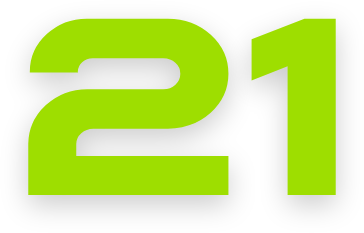
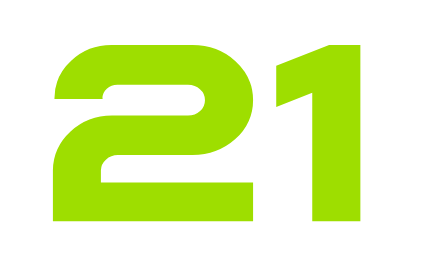
fix(web): refresh Korra wordmarks and login marks for 0.21.14

diff --git a/web/src/components/KorraBrand.tsx b/web/src/components/KorraBrand.tsx
@@ -9,15 +9,15 @@ import { withBasePath } from "@/lib/api";
  */
 export function KorraBrand({ className, themeName }: KorraBrandProps) {
   const src = themeName === "dark"
-    ? withBasePath("/korra-logo-dark.png")
-    : withBasePath("/korra-logo-light.png");
+    ? withBasePath("/korra-logo-dark.png?v=0.21.14")
+    : withBasePath("/korra-logo-light.png?v=0.21.14");
 
   return (
     <img
       src={src}
       alt="Korra"
       className={cn(
-        "h-[22px] w-auto max-w-[132px] shrink-0 object-contain",
+        "h-[26px] w-auto max-w-[132px] shrink-0 object-contain",
         className,
       )}
     />

diff --git a/web/src/App.tsx b/web/src/App.tsx
@@ -720,7 +720,7 @@ export default function App() {
           <Menu />
         </Button>
 
-        <KorraBrand themeName={theme.name} className="h-[18px]" />
+        <KorraBrand themeName={theme.name} className="h-[21px]" />
       </header>
 
       {mobileOpen && (

diff --git a/korra_cli/dashboard_auth/login_page.py b/korra_cli/dashboard_auth/login_page.py
@@ -119,13 +119,11 @@ _LOGIN_HTML_TEMPLATE = """\
     to   {{ opacity: 1; transform: translateY(0); }}
   }}
 
-  /* The lockup is assembled from the brand PNGs. Both carry their own soft
-     shadow and transparent padding inside the frame: the letters fill 61.7%
-     of their frame height, the numeral 75.5%. Hence the .817 multiplier
-     (optically equal heights) and the near-zero gap — the optical gap is
-     already baked into the files' padding. */
+  /* Both PNGs have transparent padding. The new shadow-free letters fill
+     58.3% of their frame height, the numeral 67.8%; .86 keeps their visible
+     heights aligned. The optical gap is already in the files. */
   .brand-lockup {{
-    --word-h: clamp(2.2rem, 4.2vw, 3.2rem);
+    --word-h: clamp(2.55rem, 4.9vw, 3.75rem);
     display: flex;
     align-items: center;
     gap: 0.1rem;
@@ -133,7 +131,7 @@ _LOGIN_HTML_TEMPLATE = """\
   }}
 
   .brand-word {{ height: var(--word-h); width: auto; }}
-  .brand-number {{ height: calc(var(--word-h) * 0.817); width: auto; }}
+  .brand-number {{ height: calc(var(--word-h) * 0.86); width: auto; }}
 
   /* Строка слева меняется сама. Стек на grid, а не абсолютное
      позиционирование: блок получает высоту самой длинной фразы, и раскладка
@@ -378,8 +376,8 @@ _LOGIN_HTML_TEMPLATE = """\
   <div class="login-shell">
     <section class="identity">
       <div class="brand-lockup">
-        <img class="brand-word" src="{base_path}/brand/korra-wordmark.png" alt="Korra" width="740" height="149">
-        <img class="brand-number" src="{base_path}/brand/korra-21.png" alt="21" width="364" height="233">
+        <img class="brand-word" src="{base_path}/brand/korra-wordmark.png?v=0.21.14" alt="Korra" width="1144" height="235">
+        <img class="brand-number" src="{base_path}/brand/korra-21.png?v=0.21.14" alt="21" width="423" height="261">
       </div>
       <h1>
         <span class="tagline-line">Чтобы твои идеи не оставались идеями</span>
@@ -454,17 +452,17 @@ _EMPTY_HTML = """\
   main {
     width: 100%; max-width: 30rem;
   }
-  /* Тот же лок-ап из PNG, что и на /login: множитель .817 уравнивает
+  /* Тот же лок-ап из PNG, что и на /login: множитель .86 уравнивает
      оптические высоты литер и цифры внутри их кадров. */
   .brand {
-    --word-h: 2.35rem;
+    --word-h: 2.75rem;
     display: inline-flex;
     align-items: center;
     gap: 0.1rem;
     margin-bottom: clamp(2.4rem, 7vh, 3.6rem);
   }
   .brand-word { height: var(--word-h); width: auto; }
-  .brand-number { height: calc(var(--word-h) * 0.817); width: auto; }
+  .brand-number { height: calc(var(--word-h) * 0.86); width: auto; }
   h1 {
     margin: 0 0 1rem;
     font-weight: 680;
@@ -504,8 +502,8 @@ _EMPTY_HTML = """\
 <body>
 <main>
 <div class="brand">
-  <img class="brand-word" src="/brand/korra-wordmark.png" alt="Korra" width="740" height="149">
-  <img class="brand-number" src="/brand/korra-21.png" alt="21" width="364" height="233">
+  <img class="brand-word" src="/brand/korra-wordmark.png?v=0.21.14" alt="Korra" width="1144" height="235">
+  <img class="brand-number" src="/brand/korra-21.png?v=0.21.14" alt="21" width="423" height="261">
 </div>
 <h1>Настройте доступ</h1>
 <p>Панель готова принимать подключения. Добавьте провайдер логина и пароля или OAuth-провайдер в конфигурации Korra21.</p>

diff --git a/tests/korra_cli/test_dashboard_auth_password_login.py b/tests/korra_cli/test_dashboard_auth_password_login.py
@@ -463,8 +463,8 @@ class TestLoginPageRender:
             assert "color-scheme: dark" not in html
             assert "--canvas: #212121" not in html
             assert 'content="#e8e8e8"' in html
-            assert '<img class="brand-word" src="/brand/korra-wordmark.png"' in html
-            assert '<img class="brand-number" src="/brand/korra-21.png"' in html
+            assert '<img class="brand-word" src="/brand/korra-wordmark.png?v=0.21.14"' in html
+            assert '<img class="brand-number" src="/brand/korra-21.png?v=0.21.14"' in html
             assert '<span class="brand-word">KORRA</span>' not in html
         finally:
             clear_providers()
@@ -478,7 +478,7 @@ class TestLoginPageRender:
         assert "Настройте доступ" in html
         assert "color-scheme: light" in html
         assert "color-scheme: dark" not in html
-        assert 'src="/brand/korra-wordmark.png"' in html
+        assert 'src="/brand/korra-wordmark.png?v=0.21.14"' in html
 
     def test_oauth_only_page_stays_script_free(self):
         clear_providers()

diff --git a/tests/korra_cli/test_dashboard_auth_prefix.py b/tests/korra_cli/test_dashboard_auth_prefix.py
@@ -206,8 +206,8 @@ class TestGateRedirectsCarryPrefix:
         assert 'href="/hermes/auth/login?provider=stub"' in r.text
         # Знаки бренда — такие же pre-auth ассеты, как шрифт: без префикса
         # под ingress-монтированием лок-ап уехал бы на чужой origin.
-        assert 'src="/hermes/brand/korra-wordmark.png"' in r.text
-        assert 'src="/hermes/brand/korra-21.png"' in r.text
+        assert 'src="/hermes/brand/korra-wordmark.png?v=0.21.14"' in r.text
+        assert 'src="/hermes/brand/korra-21.png?v=0.21.14"' in r.text
 
 
     def test_malformed_prefix_header_is_ignored(self, gated_app_proxied):
